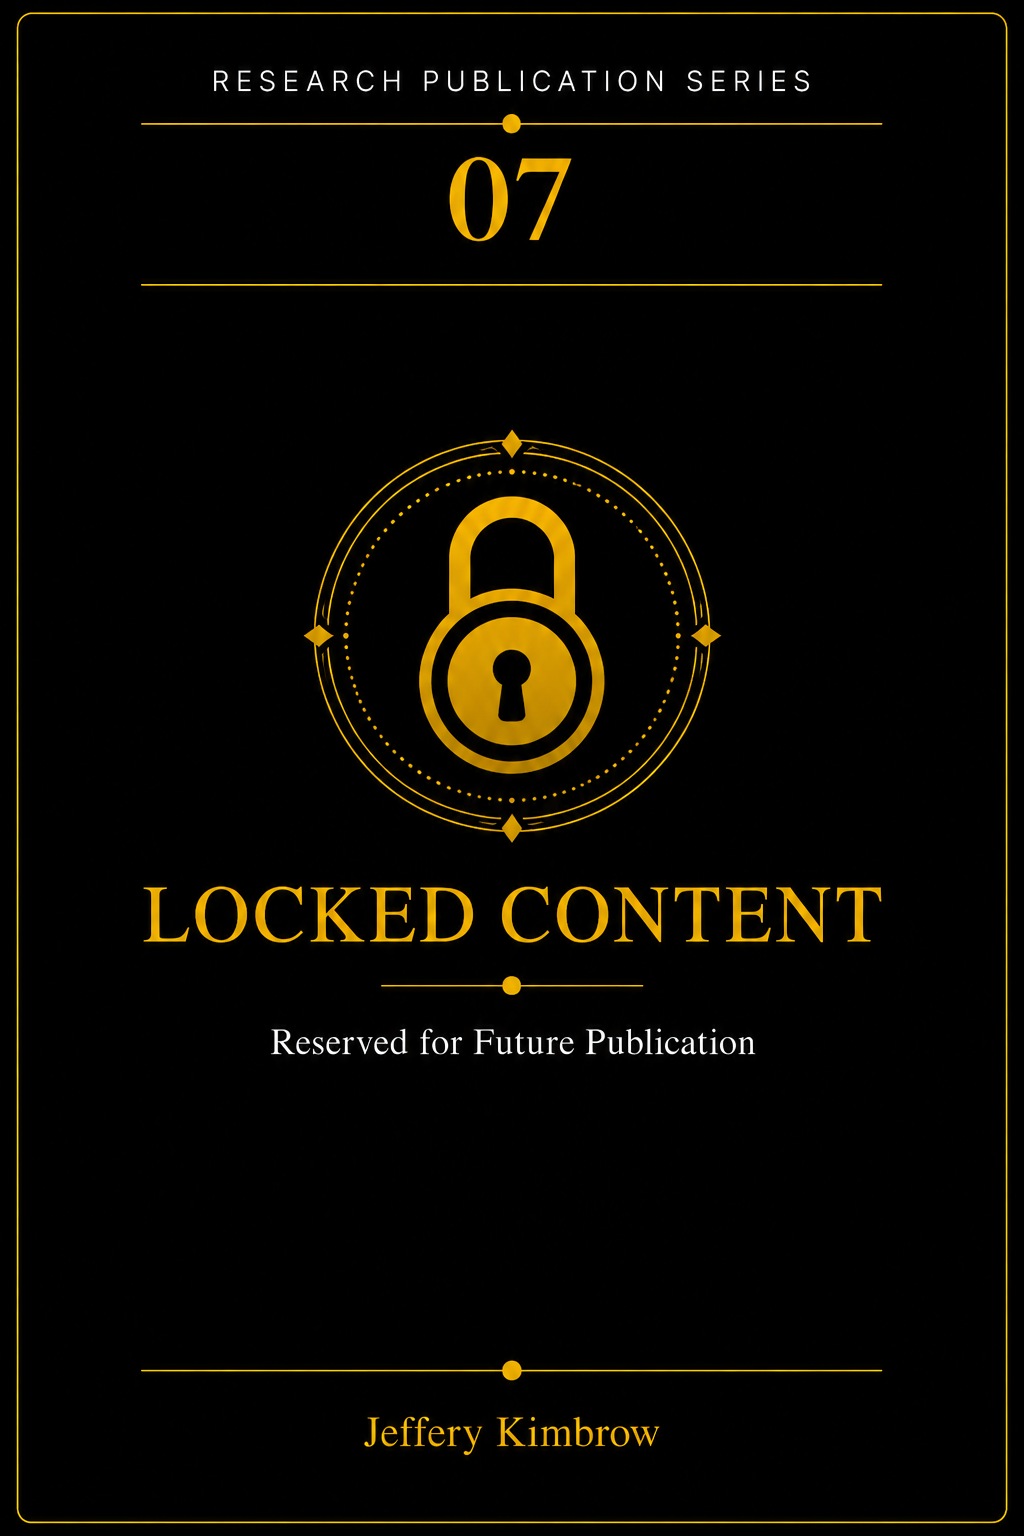
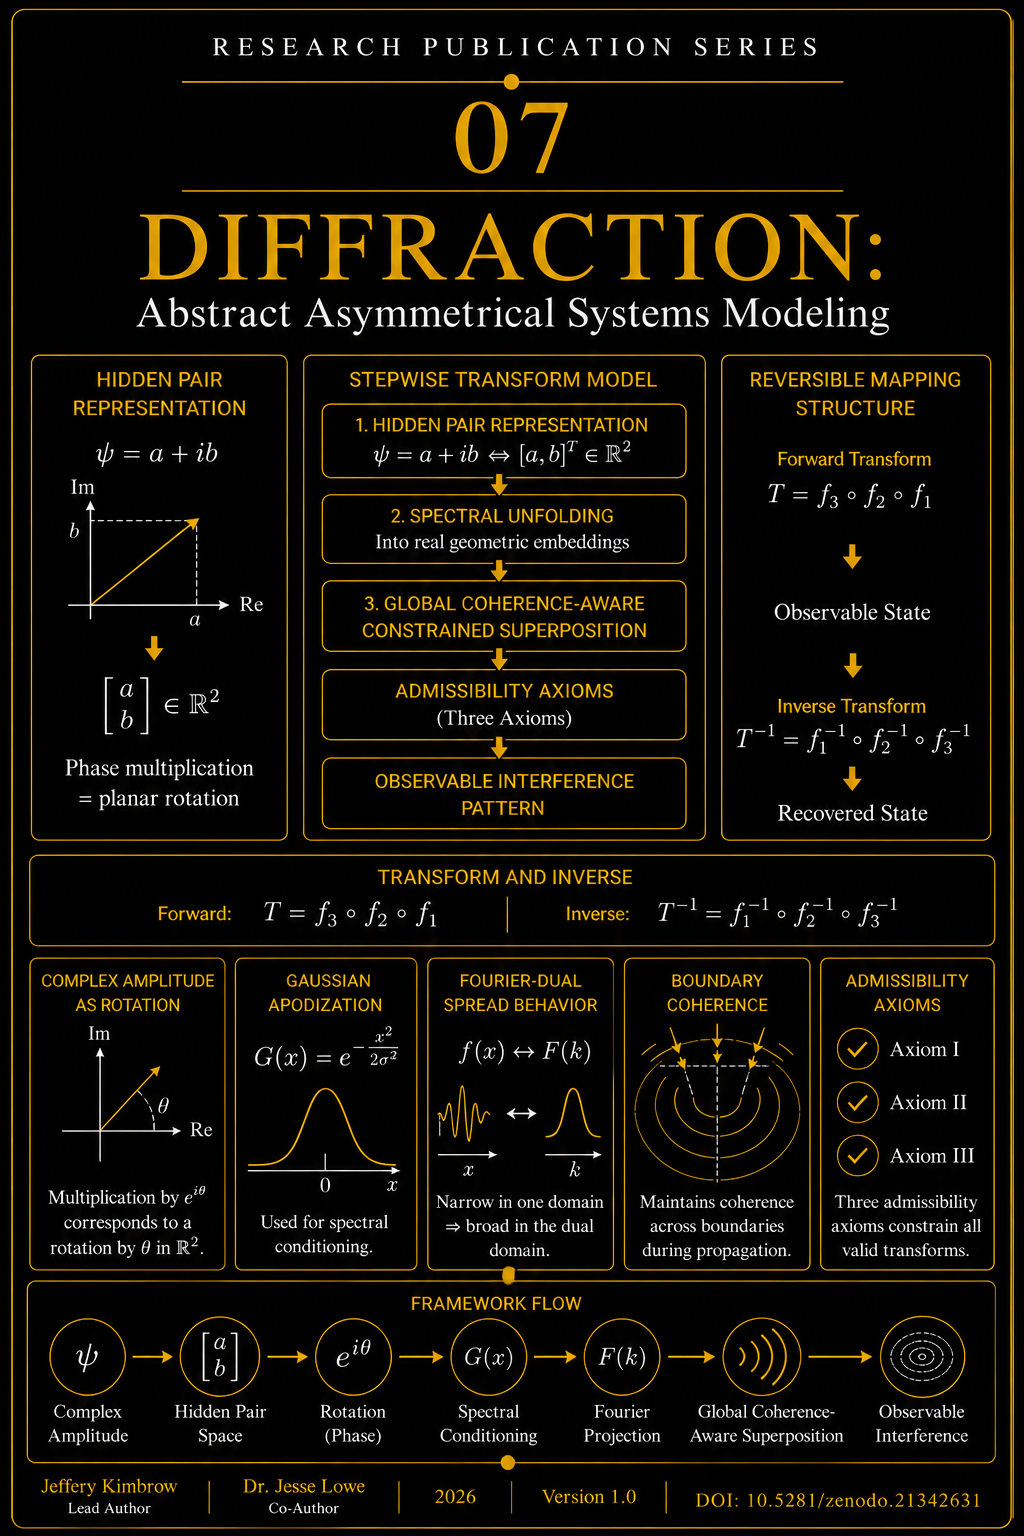
Publish DIFFRACTION III and refresh site branding

diff --git a/publications.html b/publications.html
@@ -51,8 +51,8 @@
     <div class="container-fluid d-flex align-items-center justify-content-between">
 
       <a href="index.html" class="logo d-flex align-items-center  me-auto me-lg-0">
-        <img src="assets/img/gallery/JK new.png" alt="">
-        <h1>0x6A656666@HAVEN:~/ $█</h1>
+        <h1>0x6A656666@SILICON_GREMLIN:~/ $</h1>
+        <img src="assets/img/gallery/SiliconGremlin.jpg" alt="">
       </a>
 
       <nav id="navbar" class="navbar">
@@ -181,34 +181,71 @@ A public archive of non-restricted research publications, case studies, and long
   </div>
 <div class="row gy-4 justify-content-center publication-row diffraction-row">
 
-  <div class="col-xl col-lg-4 col-md-6">
-    <div class="gallery-item publication-item h-100">
-      <img src="assets/img/gallery/publications/DIFFRACTION_1.png" class="img-fluid" alt="The DIFFRACTION Model: Case Study on Cross-Boundary Fault Propagation in Runtime Systems">
-      <div class="gallery-links d-flex align-items-center justify-content-center">
-        <a href="assets/img/gallery/publications/DIFFRACTION_1.png" title="The DIFFRACTION Model: Case Study on Cross-Boundary Fault Propagation in Runtime Systems" class="glightbox preview-link"><i class="bi bi-arrows-angle-expand"></i></a>
-        <a href="https://doi.org/10.5281/zenodo.20800364" class="details-link" aria-label="View DOI for The DIFFRACTION Model"><i class="bi bi-link-45deg"></i></a>
-      </div>
+<div class="col-xl col-lg-4 col-md-6">
+  <div class="gallery-item publication-item h-100">
+    <img
+      src="assets/img/gallery/publications/DIFFRACTION_1.png"
+      class="img-fluid"
+      alt="The DIFFRACTION Model: Case Study on Cross-Boundary Fault Propagation in Runtime Systems"
+    >
+    <div class="gallery-links d-flex align-items-center justify-content-center">
+      <a
+        href="assets/img/gallery/publications/DIFFRACTION_1.png"
+        title="The DIFFRACTION Model: Case Study on Cross-Boundary Fault Propagation in Runtime Systems"
+        class="glightbox preview-link"
+      ><i class="bi bi-arrows-angle-expand"></i></a>
+      <a
+        href="https://doi.org/10.5281/zenodo.20800364"
+        class="details-link"
+        aria-label="View DOI for The DIFFRACTION Model: Case Study on Cross-Boundary Fault Propagation in Runtime Systems"
+      ><i class="bi bi-link-45deg"></i></a>
     </div>
   </div>
+</div>
 
-  <div class="col-xl col-lg-4 col-md-6">
-    <div class="gallery-item publication-item h-100">
-      <img src="assets/img/gallery/publications/DIFFRACTION_2.png" class="img-fluid" alt="Publication 06: Locked Content — Reserved for Future Publication">
-      <div class="gallery-links d-flex align-items-center justify-content-center">
-        <a href="assets/img/gallery/publications/DIFFRACTION_2.png" title="Publication 06: Locked Content — Reserved for Future Publication" class="glightbox preview-link"><i class="bi bi-arrows-angle-expand"></i></a>
-        <a href="https://doi.org/10.5281/zenodo.21283421" class="details-link" aria-label="View DOI for The DIFFRACTION Model"><i class="bi bi-link-45deg"></i></a>
-      </div>
+<div class="col-xl col-lg-4 col-md-6">
+  <div class="gallery-item publication-item h-100">
+    <img
+      src="assets/img/gallery/publications/DIFFRACTION_2.png"
+      class="img-fluid"
+      alt="DIFFRACTION—Spectral Conditioning and N-Boundary Interference Modeling in Modern Runtime Systems"
+    >
+    <div class="gallery-links d-flex align-items-center justify-content-center">
+      <a
+        href="assets/img/gallery/publications/DIFFRACTION_2.png"
+        title="DIFFRACTION—Spectral Conditioning and N-Boundary Interference Modeling in Modern Runtime Systems"
+        class="glightbox preview-link"
+      ><i class="bi bi-arrows-angle-expand"></i></a>
+      <a
+        href="https://doi.org/10.5281/zenodo.21283421"
+        class="details-link"
+        aria-label="View DOI for DIFFRACTION—Spectral Conditioning and N-Boundary Interference Modeling in Modern Runtime Systems"
+      ><i class="bi bi-link-45deg"></i></a>
     </div>
   </div>
+</div>
 
-  <div class="col-xl col-lg-4 col-md-6">
-    <div class="gallery-item publication-item h-100">
-      <img src="assets/img/gallery/publications/DIFFRACTION_3.png" class="img-fluid" alt="Publication 07: Locked Content — Reserved for Future Publication">
-      <div class="gallery-links d-flex align-items-center justify-content-center">
-        <a href="assets/img/gallery/publications/DIFFRACTION_3.png" title="Publication 07: Locked Content — Reserved for Future Publication" class="glightbox preview-link"><i class="bi bi-arrows-angle-expand"></i></a>
-      </div>
+<div class="col-xl col-lg-4 col-md-6">
+  <div class="gallery-item publication-item h-100">
+    <img
+      src="assets/img/gallery/publications/DIFFRACTION_3.png"
+      class="img-fluid"
+      alt="DIFFRACTION—Abstract Asymmetrical Systems Modeling"
+    >
+    <div class="gallery-links d-flex align-items-center justify-content-center">
+      <a
+        href="assets/img/gallery/publications/DIFFRACTION_3.png"
+        title="DIFFRACTION—Abstract Asymmetrical Systems Modeling"
+        class="glightbox preview-link"
+      ><i class="bi bi-arrows-angle-expand"></i></a>
+      <a
+        href="https://doi.org/10.5281/zenodo.21342631"
+        class="details-link"
+        aria-label="View DOI for DIFFRACTION—Abstract Asymmetrical Systems Modeling"
+      ><i class="bi bi-link-45deg"></i></a>
     </div>
   </div>
+</div>
 
 </div>
 <!-- Memoir feature row -->
@@ -249,13 +286,6 @@ A public archive of non-restricted research publications, case studies, and long
     <div class="container">
       <div class="copyright">
         &copy; Copyright <strong><span>Jeffery Kimbrow</span></strong>. All Rights Reserved
-      </div>
-      <div class="credits">
-        <!-- All the links in the footer should remain intact. -->
-        <!-- You can delete the links only if you purchased the pro version. -->
-        <!-- Licensing information: https://bootstrapmade.com/license/ -->
-        <!-- Purchase the pro version with working PHP/AJAX contact form: https://bootstrapmade.com/photofolio-bootstrap-photography-website-template/ -->
-        Designed by <a href="https://bootstrapmade.com/">BootstrapMade</a>
       </div>
     </div>
   </footer>

diff --git a/index.html b/index.html
@@ -52,8 +52,8 @@
     <div class="container-fluid d-flex align-items-center justify-content-between">
 
       <a href="index.html" class="logo d-flex align-items-center  me-auto me-lg-0">
-        <img src="assets/img/gallery/JK new.png" alt="">
-        <h1>0x6A656666@HAVEN:~/ $█</h1>
+        <h1>0x6A656666@SILICON_GREMLIN:~/ $</h1>
+        <img src="assets/img/gallery/SiliconGremlin.jpg" alt="">
       </a>
 
       <nav id="navbar" class="navbar">
@@ -163,13 +163,7 @@
       <div class="copyright">
         &copy; Copyright <strong><span>Jeffery Kimbrow</span></strong>. All Rights Reserved
       </div>
-      <div class="credits">
-        <!-- All the links in the footer should remain intact. -->
-        <!-- You can delete the links only if you purchased the pro version. -->
-        <!-- Licensing information: https://bootstrapmade.com/license/ -->
-        <!-- Purchase the pro version with working PHP/AJAX contact form: https://bootstrapmade.com/photofolio-bootstrap-photography-website-template/ -->
-        Designed by <a href="https://bootstrapmade.com/">BootstrapMade</a>
-      </div>
+     
     </div>
   </footer>
   <!-- End Footer -->

diff --git a/gallery-astro.html b/gallery-astro.html
@@ -38,8 +38,8 @@
     <div class="container-fluid d-flex align-items-center justify-content-between">
 
       <a href="index.html" class="logo d-flex align-items-center  me-auto me-lg-0">
-        <img src="assets/img/gallery/JK new.png" alt="">
-        <h1>0x6A656666@HAVEN:~/ $█</h1>
+        <h1>0x6A656666@SILICON_GREMLIN:~/ $</h1>
+        <img src="assets/img/gallery/SiliconGremlin.jpg" alt="">
       </a>
 
       <nav id="navbar" class="navbar">
@@ -370,13 +370,7 @@
       <div class="copyright">
         &copy; Copyright <strong><span>Jeffery Kimbrow</span></strong>. All Rights Reserved
       </div>
-      <div class="credits">
-        <!-- All the links in the footer should remain intact. -->
-        <!-- You can delete the links only if you purchased the pro version. -->
-        <!-- Licensing information: https://bootstrapmade.com/license/ -->
-        <!-- Purchase the pro version with working PHP/AJAX contact form: https://bootstrapmade.com/photofolio-bootstrap-photography-website-template/ -->
-        Designed by <a href="https://bootstrapmade.com/">BootstrapMade</a>
-      </div>
+      
     </div>
   </footer><!-- End Footer -->
 

diff --git a/life-between-photons.html b/life-between-photons.html
@@ -51,8 +51,8 @@
     <div class="container-fluid d-flex align-items-center justify-content-between">
 
       <a href="index.html" class="logo d-flex align-items-center  me-auto me-lg-0">
-        <img src="assets/img/gallery/JK new.png" alt="">
-        <h1>0x6A656666@HAVEN:~/ $█</h1>
+        <h1>0x6A656666@SILICON_GREMLIN:~/ $</h1>
+        <img src="assets/img/gallery/SiliconGremlin.jpg" alt="">
       </a>
 
       <nav id="navbar" class="navbar">
@@ -296,12 +296,7 @@ seed for DIFFRACTION.
       <div class="copyright">
         &copy; Copyright <strong><span>Jeffery Kimbrow</span></strong>. All Rights Reserved
       </div>
-      <div class="credits">
-        <!-- All the links in the footer should remain intact. -->
-        <!-- You can delete the links only if you purchased the pro version. -->
-        <!-- Licensing information: https://bootstrapmade.com/license/ -->
-        <!-- Purchase the pro version with working PHP/AJAX contact form: https://bootstrapmade.com/photofolio-bootstrap-photography-website-template/ -->
-        Designed by <a href="https://bootstrapmade.com/">BootstrapMade</a>
+     
       </div>
     </div>
   </footer>

diff --git a/gallery-nature.html b/gallery-nature.html
@@ -38,8 +38,8 @@
     <div class="container-fluid d-flex align-items-center justify-content-between">
 
       <a href="index.html" class="logo d-flex align-items-center  me-auto me-lg-0">
-        <img src="assets/img/gallery/JK new.png" alt="">
-        <h1>0x6A656666@HAVEN:~/ $█</h1>
+        <h1>0x6A656666@SILICON_GREMLIN:~/ $</h1>
+        <img src="assets/img/gallery/SiliconGremlin.jpg" alt="">
       </a>
 
       <nav id="navbar" class="navbar">
@@ -166,13 +166,7 @@
       <div class="copyright">
         &copy; Copyright <strong><span>Jeffery Kimbrow</span></strong>. All Rights Reserved
       </div>
-      <div class="credits">
-        <!-- All the links in the footer should remain intact. -->
-        <!-- You can delete the links only if you purchased the pro version. -->
-        <!-- Licensing information: https://bootstrapmade.com/license/ -->
-        <!-- Purchase the pro version with working PHP/AJAX contact form: https://bootstrapmade.com/photofolio-bootstrap-photography-website-template/ -->
-        Designed by <a href="https://bootstrapmade.com/">BootstrapMade</a>
-      </div>
+     
     </div>
   </footer><!-- End Footer -->
 

diff --git a/gallery.html b/gallery.html
@@ -39,8 +39,8 @@
     <div class="container-fluid d-flex align-items-center justify-content-between">
 
       <a href="index.html" class="logo d-flex align-items-center  me-auto me-lg-0">
-        <img src="assets/img/gallery/JK new.png" alt="">
-        <h1>0x6A656666@HAVEN:~/ $█</h1>
+        <h1>0x6A656666@SILICON_GREMLIN:~/ $</h1>
+        <img src="assets/img/gallery/SiliconGremlin.jpg" alt="">
       </a>
 
       <nav id="navbar" class="navbar">
@@ -113,13 +113,7 @@
       <div class="copyright">
         &copy; Copyright <strong><span>Jeffery Kimbrow</span></strong>. All Rights Reserved
       </div>
-      <div class="credits">
-        <!-- All the links in the footer should remain intact. -->
-        <!-- You can delete the links only if you purchased the pro version. -->
-        <!-- Licensing information: https://bootstrapmade.com/license/ -->
-        <!-- Purchase the pro version with working PHP/AJAX contact form: https://bootstrapmade.com/photofolio-bootstrap-photography-website-template/ -->
-        Designed by <a href="https://bootstrapmade.com/">BootstrapMade</a>
-      </div>
+     
     </div>
   </footer><!-- End Footer -->
 
